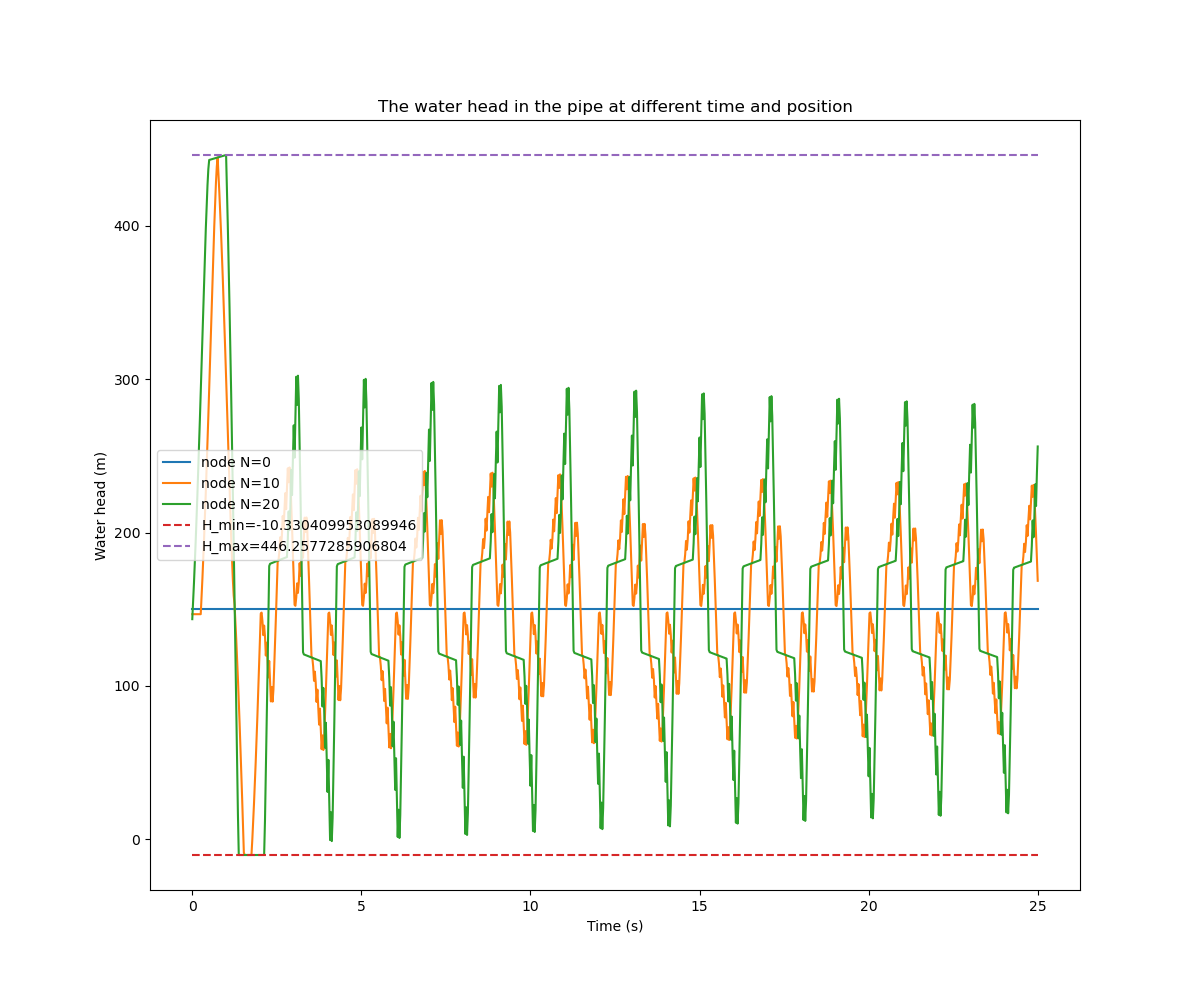
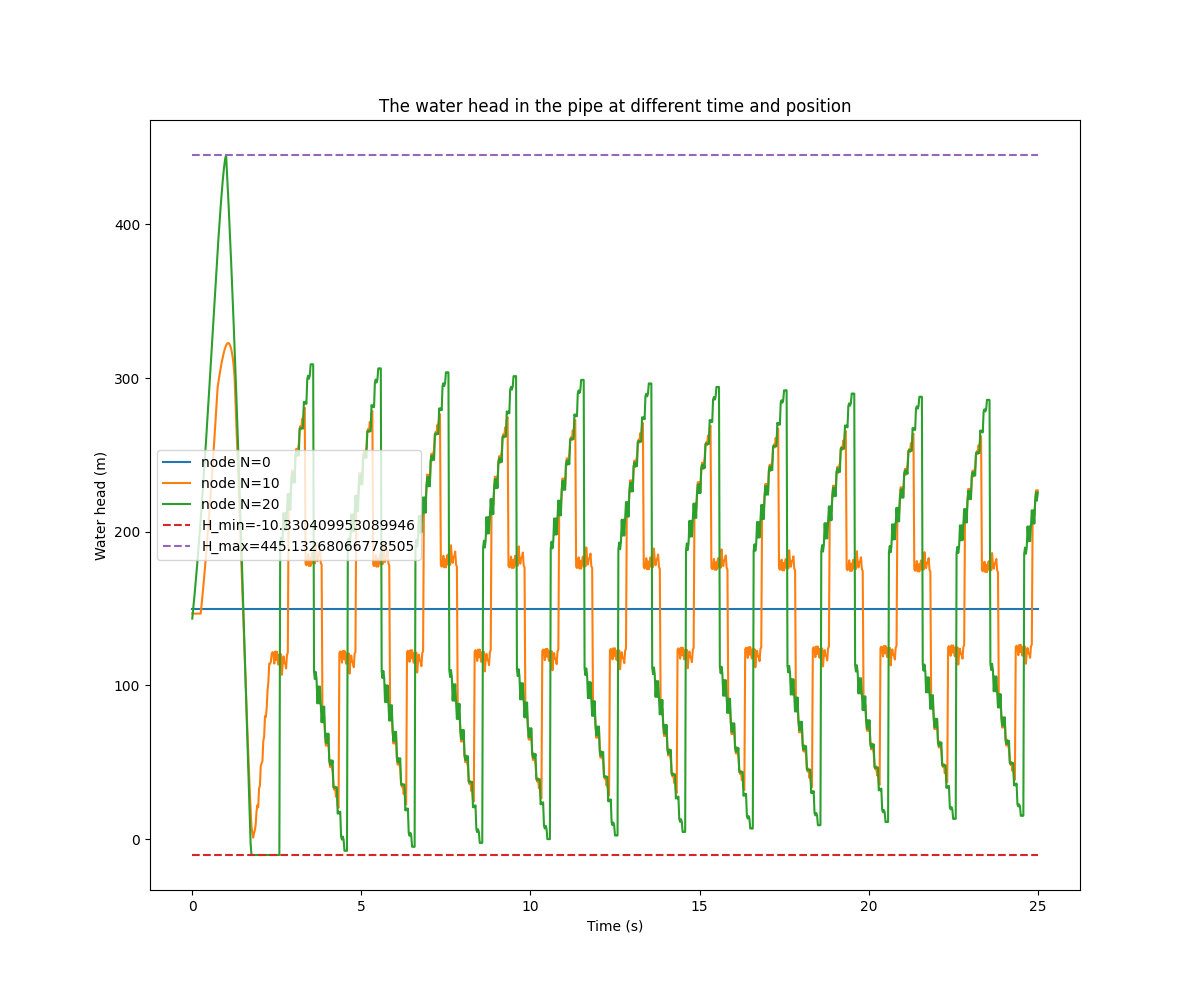
自主

diff --git a/自主研究探索课程（1）/Project/Code/MOC_open.py b/自主研究探索课程（1）/Project/Code/MOC_open.py
@@ -12,7 +12,7 @@ f = 0.018
 # k is a coefficient
 k = 0.009
 g = 9.806
-t_c = 1.0
+t_c = 0.5
 E_m = 1.5
 rho = 1000
 # The minimum water head at which the water will vaporize
@@ -27,8 +27,8 @@ N_t = int(T/dt)
 
 # initialize the Q, H and E, E is the volumn of the cavity, axis 0 is time, axis 1 is the position
 init = np.zeros(N+1)
-Q = np.zeros((N_t+1,N+1)) + Q_0
-H = np.zeros((N_t+1,N+1))
+Q = np.zeros((N_t+1,N+1))
+H = np.zeros((N_t+1,N+1)) + H_R
 E = np.zeros((N_t+1,N+1))
 # initialize the H by linear interpolation
 for i in range(N+1):
@@ -42,9 +42,9 @@ R = f*dx/(2*g*D*A**2)
 for i in range(1,N_t+1):
     t =  i*dt
     if t < t_c:
-        tau = np.power(1-t/t_c,E_m)
+        tau = t/t_c
     else:
-        tau = 0
+        tau = 1
     for j in range(N+1):
         # If the cavitarion does not happen
         if E[i-1,j] <= 0:
@@ -83,7 +83,7 @@ plt.xlabel('Time (s)')
 plt.ylabel('Water head (m)')
 plt.title('The water head in the pipe at different time and position')
 plt.legend()
-plt.savefig('./Report_2/pic/MOC_Waterhead.png')
+plt.savefig('./Report_2/pic/MOC_Open_Waterhead.png')
 # close the plot
 plt.close()
 # Plot the relationship between the flow rate and the time of all the nodes
@@ -96,5 +96,5 @@ plt.xlabel('Time (s)')
 plt.ylabel('Flow rate (m^3/s)')
 plt.title('The flow rate in the pipe at different time and position')
 plt.legend()
-plt.savefig('./Report_2/pic/MOC_Flowrate.png')
+plt.savefig('./Report_2/pic/MOC_Open_Flowrate.png')
 plt.close()

diff --git a/自主研究探索课程（1）/Project/Code/DVCM_backup.py b/自主研究探索课程（1）/Project/Code/DVCM_backup.py
@@ -121,7 +121,7 @@ for i in range(1,N_t+1):
 plt.figure(figsize=(12,10), dpi=100)
 
 for i in range(N+1):
-    if i%int(int(N)/2) == 0:
+    if i%10 == 0:
         plt.plot(np.arange(0,N_t+1)*dt,H[:,i],label=f'node N={i}')
 # Draw line H_min, and the maximum water head
 plt.plot(np.arange(0,N_t+1)*dt,np.ones(N_t+1)*H_min,label=f'H_min={H_min}',linestyle='--')
@@ -137,7 +137,7 @@ plt.close()
 # set the resolution and the dpi of the plot
 plt.figure(figsize=(10,10), dpi=100)
 for i in range(N+1):
-    if i%int(int(N)/2) == 0:
+    if i%10 == 0:
         plt.plot(np.arange(0,N_t+1)*dt,Q[:,i],label=f'node N={i}')
 plt.xlabel('Time (s)')
 plt.ylabel('Flow rate (m^3/s)')
@@ -157,16 +157,3 @@ plt.close()
 # plt.title('The flow rate difference in the pipe at different time and position')
 # plt.legend()
 # plt.show()
-
-# Plot the bubble volumn
-plt.figure(figsize=(10,10), dpi=100)
-for i in range(0, N+1):
-    if i % 4 == 0:
-        plt.plot(np.arange(0,N_t+1)*dt,E[:,i],label=f'node N={i}')
-plt.xlabel('Time (s)')
-plt.ylabel('Volumn m^3')
-plt.title('Bubble Volumn')
-plt.legend()
-plt.savefig('./Report_2/pic/DVCM_Bubble.png')
-plt.show()
-plt.close()
